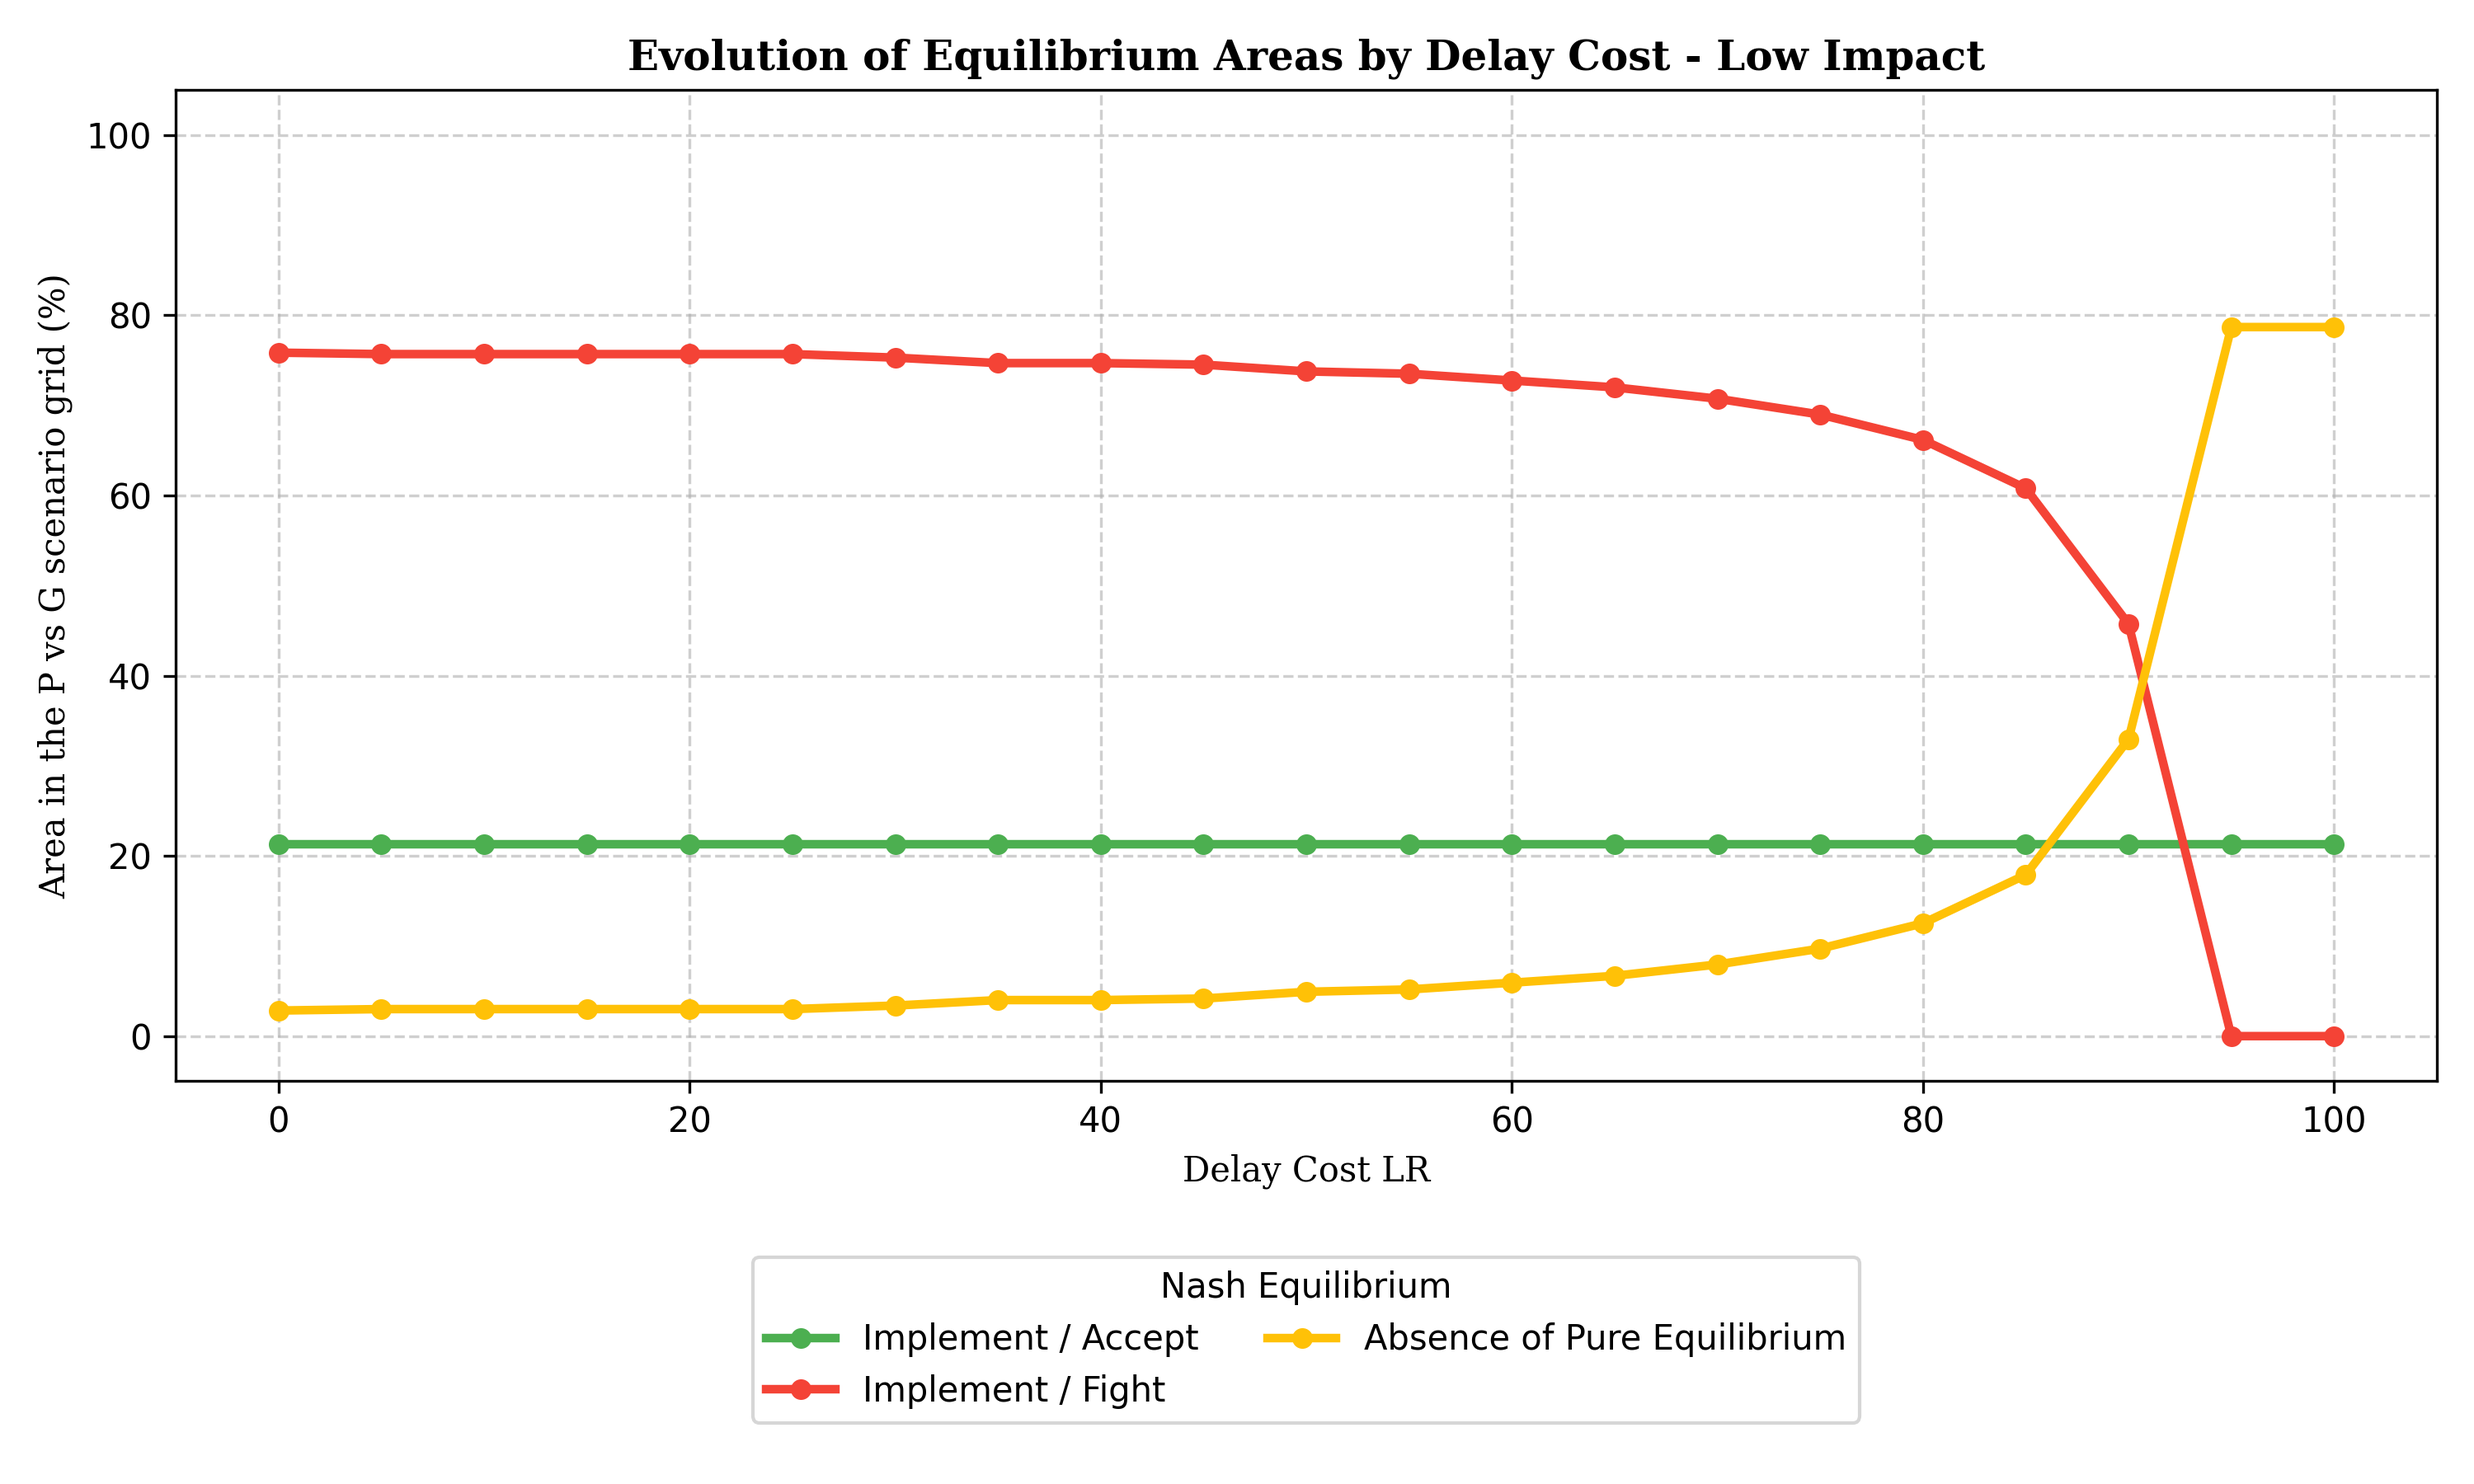
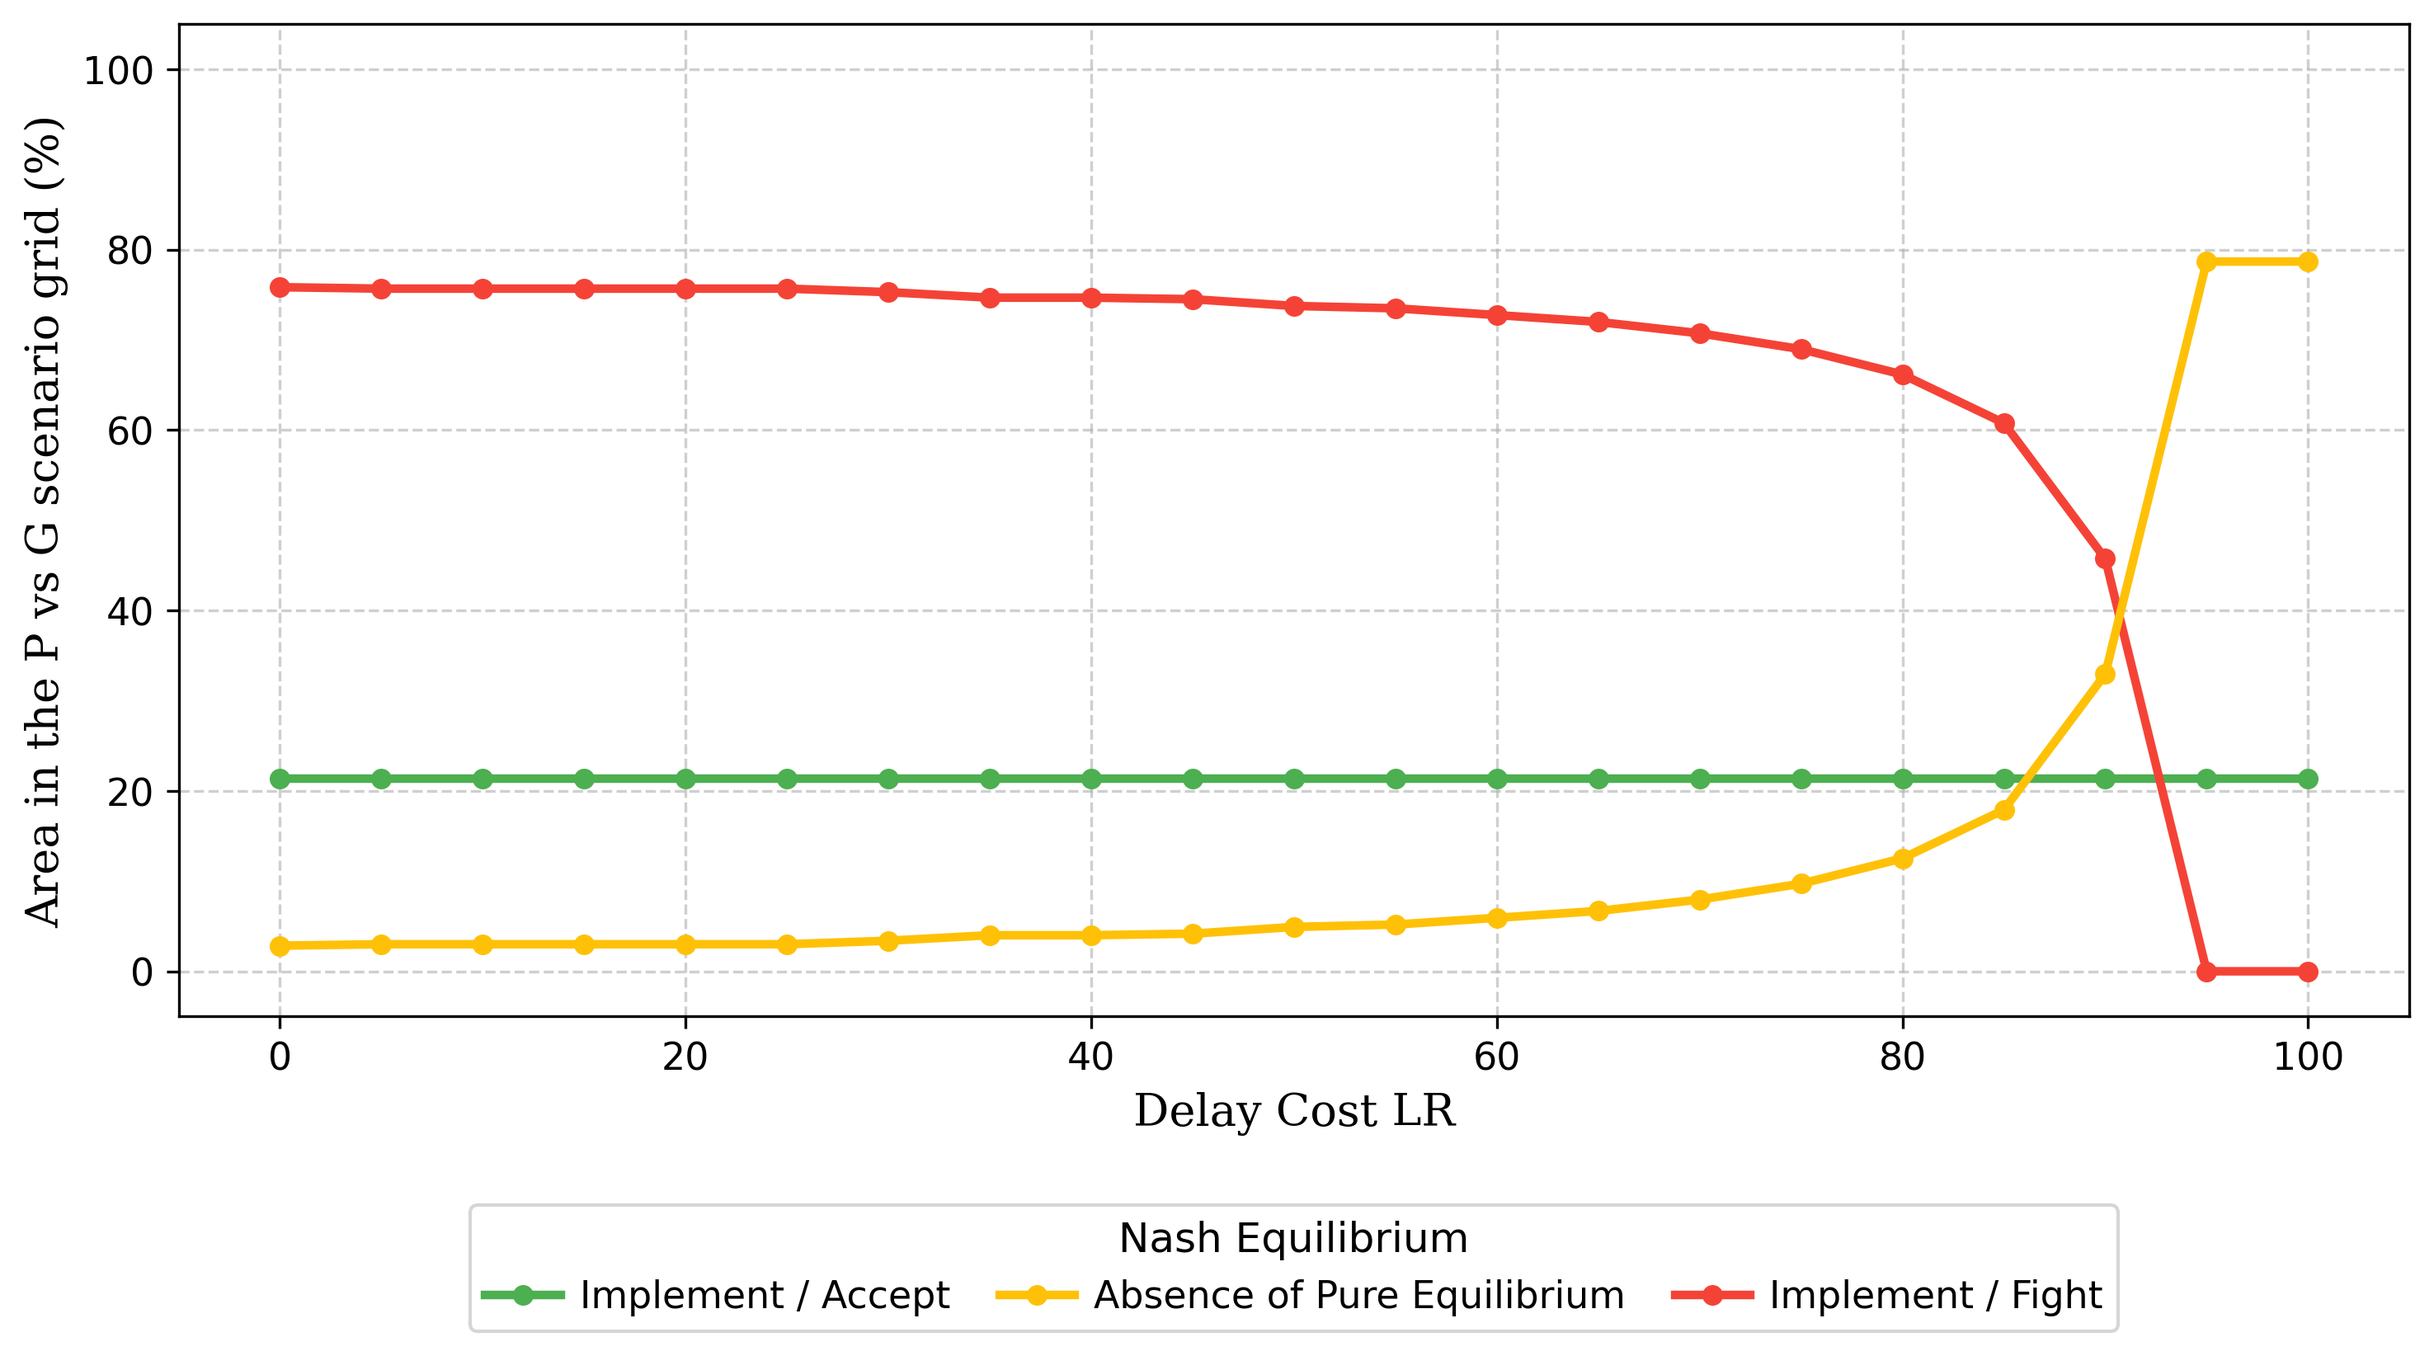
update

diff --git a/run_peniche_offshore_analysis.py b/run_peniche_offshore_analysis.py
@@ -30,6 +30,23 @@ COLOR_MAP = {
     "Absence of Pure Equilibrium": "#FFC107",
 }
 EQ_LEVELS = list(COLOR_MAP)
+ARTICLE_LEGEND_LEVELS = [
+    "Implement / Accept",
+    "Absence of Pure Equilibrium",
+    "Implement / Fight",
+]
+
+plt.rcParams.update(
+    {
+        "font.size": 12,
+        "axes.titlesize": 14,
+        "axes.labelsize": 13,
+        "xtick.labelsize": 11,
+        "ytick.labelsize": 11,
+        "legend.fontsize": 11,
+        "legend.title_fontsize": 12,
+    }
+)
 
 PARAMS = {
     "R": 100.0,
@@ -135,18 +152,28 @@ def plot_heatmap(
 
     fig, ax = plt.subplots(figsize=(8, 6))
     ax.pcolormesh(x_values, y_values, z_int.T, cmap=cmap, norm=norm, shading="auto")
-    ax.set_title(title, fontfamily="serif", fontweight="bold")
+    # Figure identification is kept in the call title and LaTeX caption; article PNGs omit embedded titles.
     ax.set_xlabel(xlab, fontfamily="serif")
     ax.set_ylabel(ylab, fontfamily="serif")
     ax.grid(True, linestyle="--", alpha=0.35)
     handles = [
         Patch(facecolor=COLOR_MAP[eq], edgecolor="black", label=eq)
-        for eq in EQ_LEVELS
+        for eq in ARTICLE_LEGEND_LEVELS
         if eq in set(rows["equilibrium"])
     ]
-    ax.legend(handles=handles, title="Nash Equilibrium", loc="upper center", bbox_to_anchor=(0.5, -0.16), ncol=2)
-    fig.tight_layout()
-    fig.savefig(FIGURE_DIR / filename, dpi=300)
+    ax.legend(
+        handles=handles,
+        title="Nash Equilibrium",
+        loc="upper center",
+        bbox_to_anchor=(0.5, -0.16),
+        ncol=3,
+        frameon=True,
+        columnspacing=1.3,
+        handletextpad=0.5,
+        borderaxespad=0.8,
+    )
+    fig.tight_layout(rect=(0, 0.04, 1, 1))
+    fig.savefig(FIGURE_DIR / filename, dpi=300, bbox_inches="tight")
     plt.close(fig)
 
 
@@ -164,14 +191,28 @@ def plot_area(rows: pd.DataFrame, title: str, xlab: str, filename: str) -> None:
                 markersize=5,
                 label=eq,
             )
-    ax.set_title(title, fontfamily="serif", fontweight="bold")
+    # Figure identification is kept in the call title and LaTeX caption; article PNGs omit embedded titles.
     ax.set_xlabel(xlab, fontfamily="serif")
     ax.set_ylabel("Area in the P vs G scenario grid (%)", fontfamily="serif")
     ax.set_ylim(-5, 105)
     ax.grid(True, linestyle="--", alpha=0.6)
-    ax.legend(title="Nash Equilibrium", loc="upper center", bbox_to_anchor=(0.5, -0.16), ncol=2)
-    fig.tight_layout()
-    fig.savefig(FIGURE_DIR / filename, dpi=300)
+    handles, labels = ax.get_legend_handles_labels()
+    legend_by_label = dict(zip(labels, handles))
+    ordered_labels = [eq for eq in ARTICLE_LEGEND_LEVELS if eq in legend_by_label]
+    ax.legend(
+        [legend_by_label[label] for label in ordered_labels],
+        ordered_labels,
+        title="Nash Equilibrium",
+        loc="upper center",
+        bbox_to_anchor=(0.5, -0.16),
+        ncol=3,
+        frameon=True,
+        columnspacing=1.3,
+        handletextpad=0.5,
+        borderaxespad=0.8,
+    )
+    fig.tight_layout(rect=(0, 0.04, 1, 1))
+    fig.savefig(FIGURE_DIR / filename, dpi=300, bbox_inches="tight")
     plt.close(fig)
 
 
@@ -256,6 +297,7 @@ def write_article_figures() -> None:
 
     pxg_rows, pxg_z = grid_equilibria(low, "G", g_values_low, "P", p_values)
     pxg_rows.to_csv(TRACE_DIR / "figure_01_probability_compensation_low_impact.csv", index=False)
+    # Figure 1: P x G equilibrium heatmap, low-impact scenario.
     plot_heatmap(
         pxg_rows,
         pxg_z,
@@ -280,6 +322,7 @@ def write_article_figures() -> None:
         )
         area["variation_percent"] = np.repeat(ca_variations, len(EQ_LEVELS))
         area.to_csv(TRACE_DIR / f"stakeholder_cost_area_{slug}.csv", index=False)
+        # Figures 2-4: P x G x Ca area evolution by impact scenario.
         plot_area(
             area.assign(value=area["variation_percent"]),
             f"Evolution of Equilibrium Areas by Stakeholder Cost - {slug.replace('_', ' ').title()}",
@@ -297,6 +340,7 @@ def write_article_figures() -> None:
         y_values=np.linspace(0, 1.5 * 0.9 * PARAMS["I"], 100),
     )
     l_area.to_csv(TRACE_DIR / "expected_local_loss_area.csv", index=False)
+    # Figure 5: P x G x L area evolution.
     plot_area(l_area, "Evolution of Equilibrium Areas by Expected Local Loss", "Expected Local Loss L", "expected_local_loss_area.png")
     copy_article_figure("expected_local_loss_area.png", "grafico5.png")
 
@@ -308,6 +352,7 @@ def write_article_figures() -> None:
         np.linspace(0, 0.9 * PARAMS["I"], 100),
     )
     gl_rows.to_csv(TRACE_DIR / "compensation_loss_heatmap.csv", index=False)
+    # Figure 6: G x L equilibrium heatmap.
     plot_heatmap(
         gl_rows,
         gl_z,
@@ -327,6 +372,7 @@ def write_article_figures() -> None:
         y_values=np.linspace(0, 1.5 * low["L"], 100),
     )
     lr_area.to_csv(TRACE_DIR / "delay_cost_area_low_impact.csv", index=False)
+    # Figure 7: P x G x LR area evolution, low-impact scenario.
     plot_area(lr_area, "Evolution of Equilibrium Areas by Delay Cost - Low Impact", "Delay Cost LR", "delay_cost_area_low_impact.png")
     copy_article_figure("delay_cost_area_low_impact.png", "grafico7.png")
 
@@ -342,6 +388,7 @@ def write_article_figures() -> None:
             np.linspace(0, PARAMS["R"], 100),
         )
         cost_rows.to_csv(TRACE_DIR / f"stakeholder_consortium_cost_heatmap_{slug}.csv", index=False)
+        # Figures 8-9: Ca x Cs equilibrium heatmaps for low- and high-impact scenarios.
         plot_heatmap(
             cost_rows,
             cost_z,
